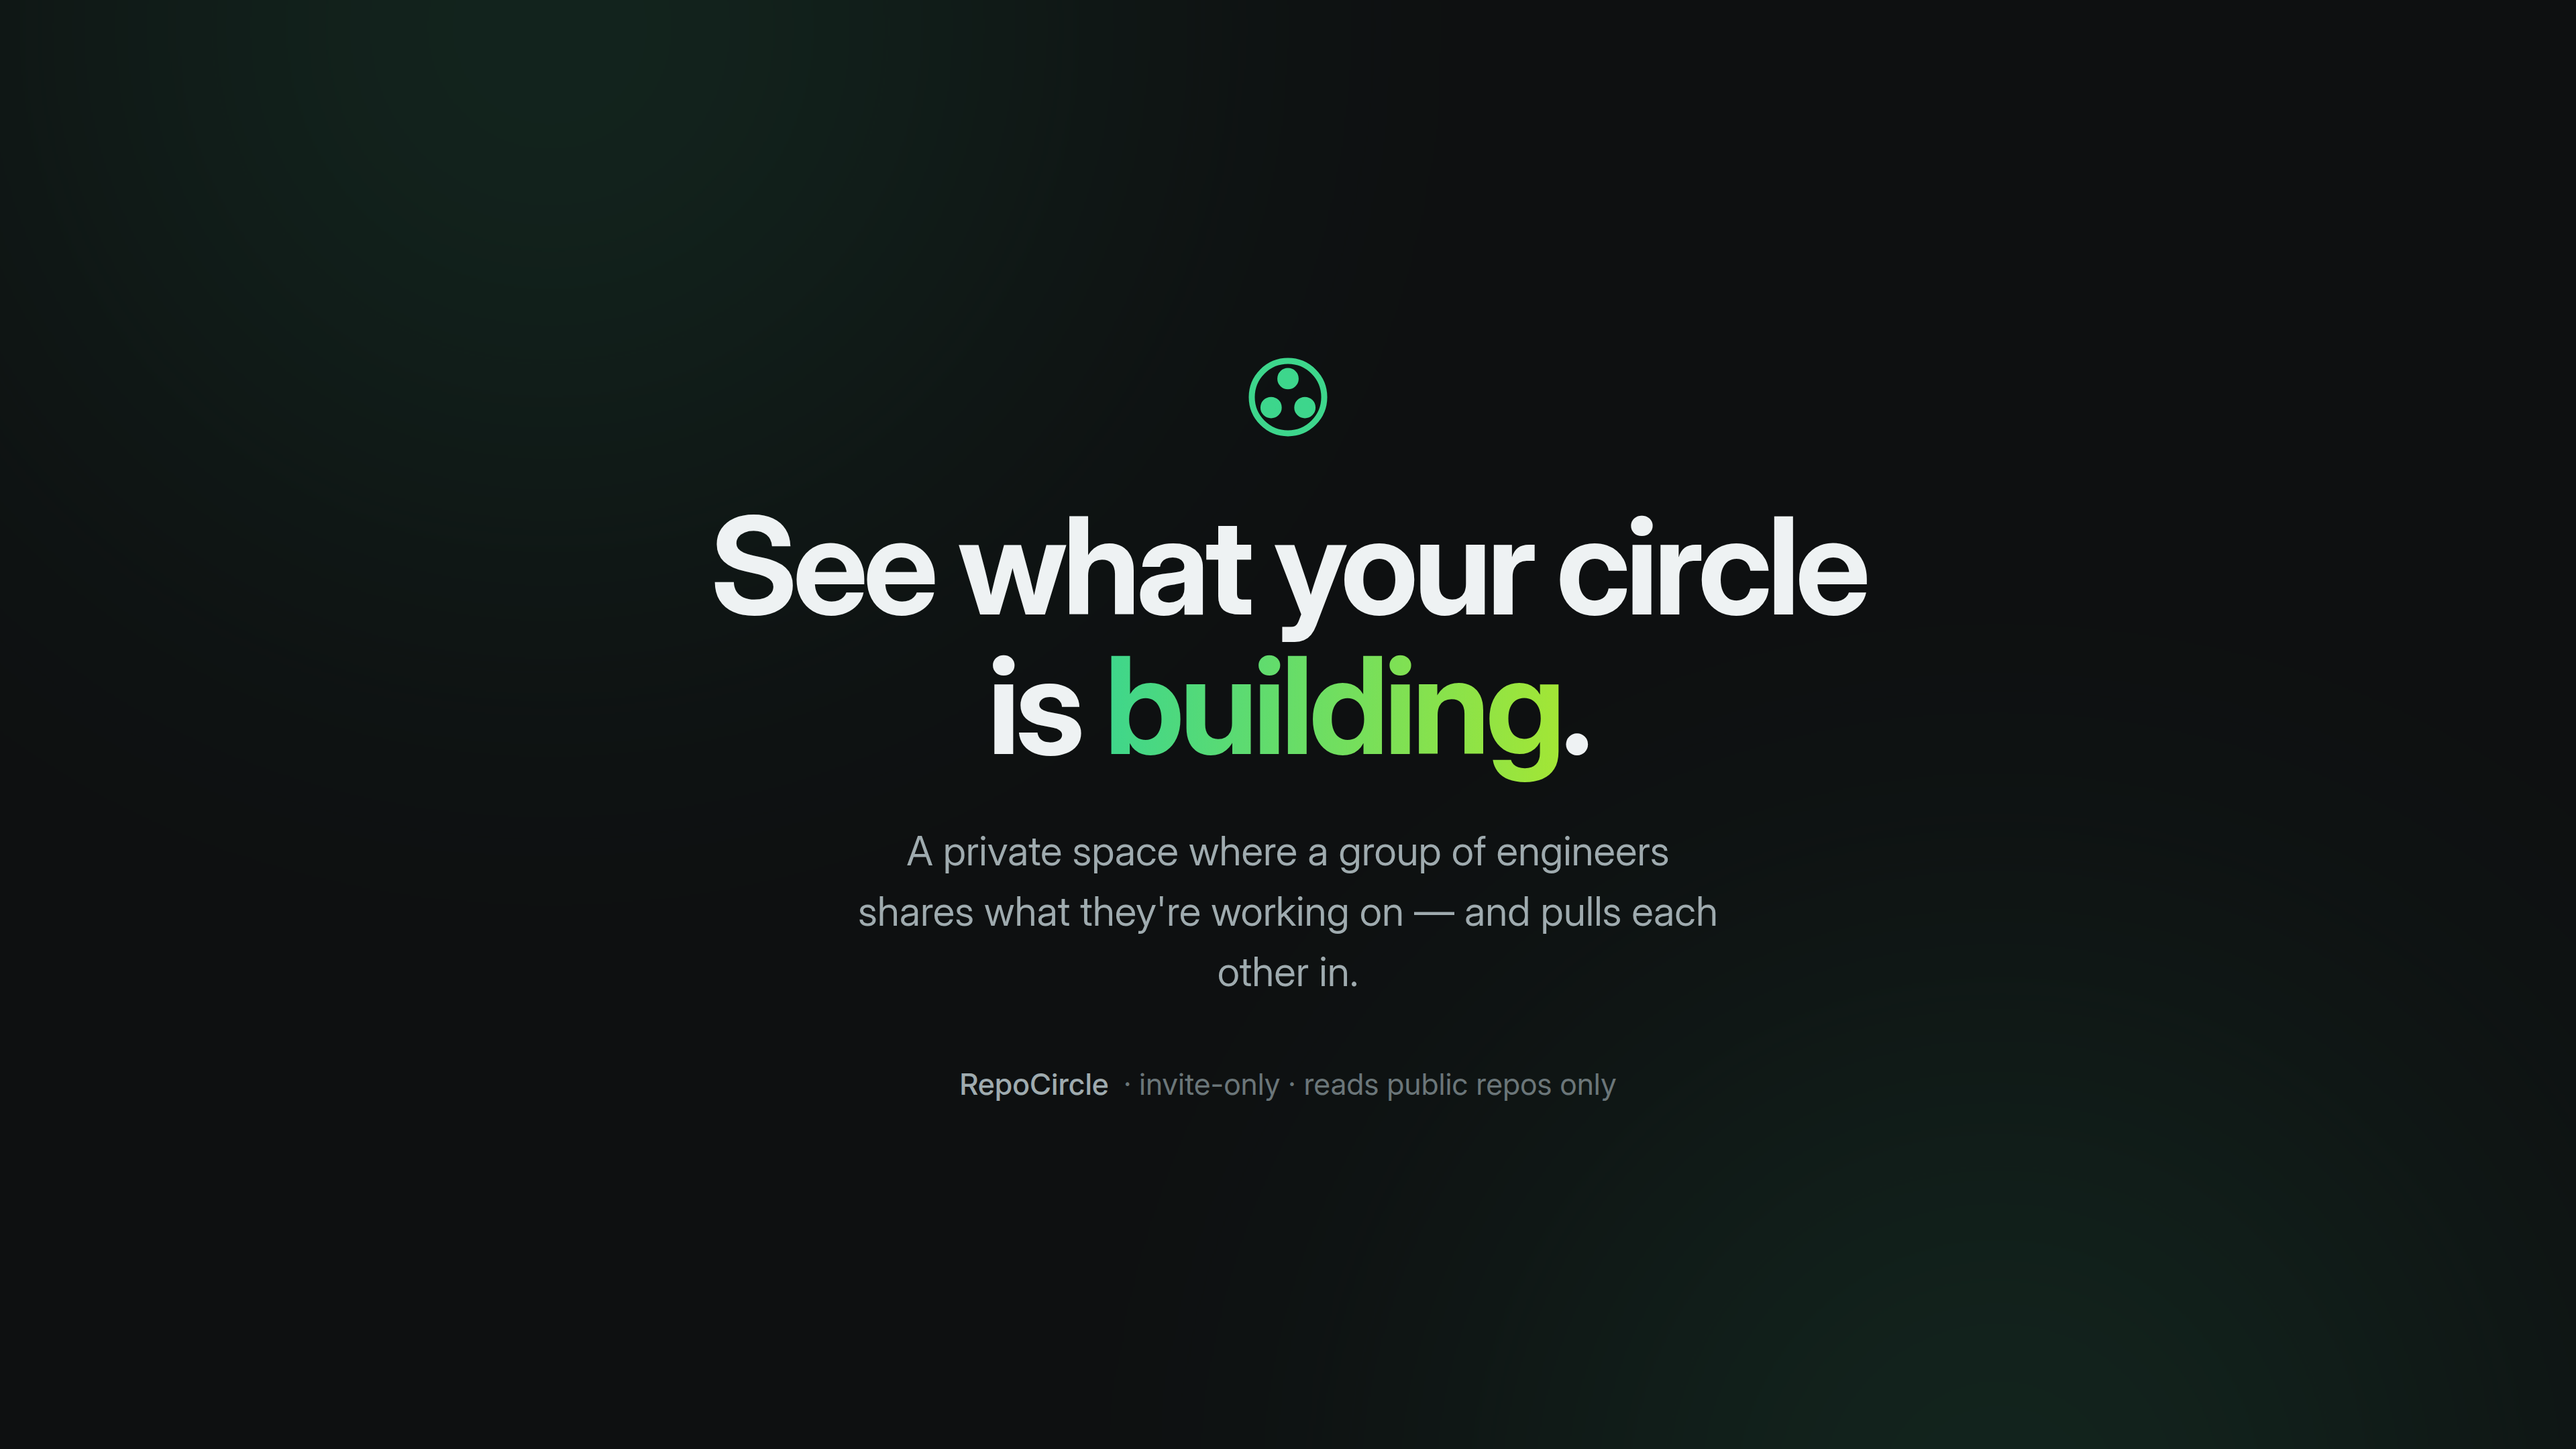
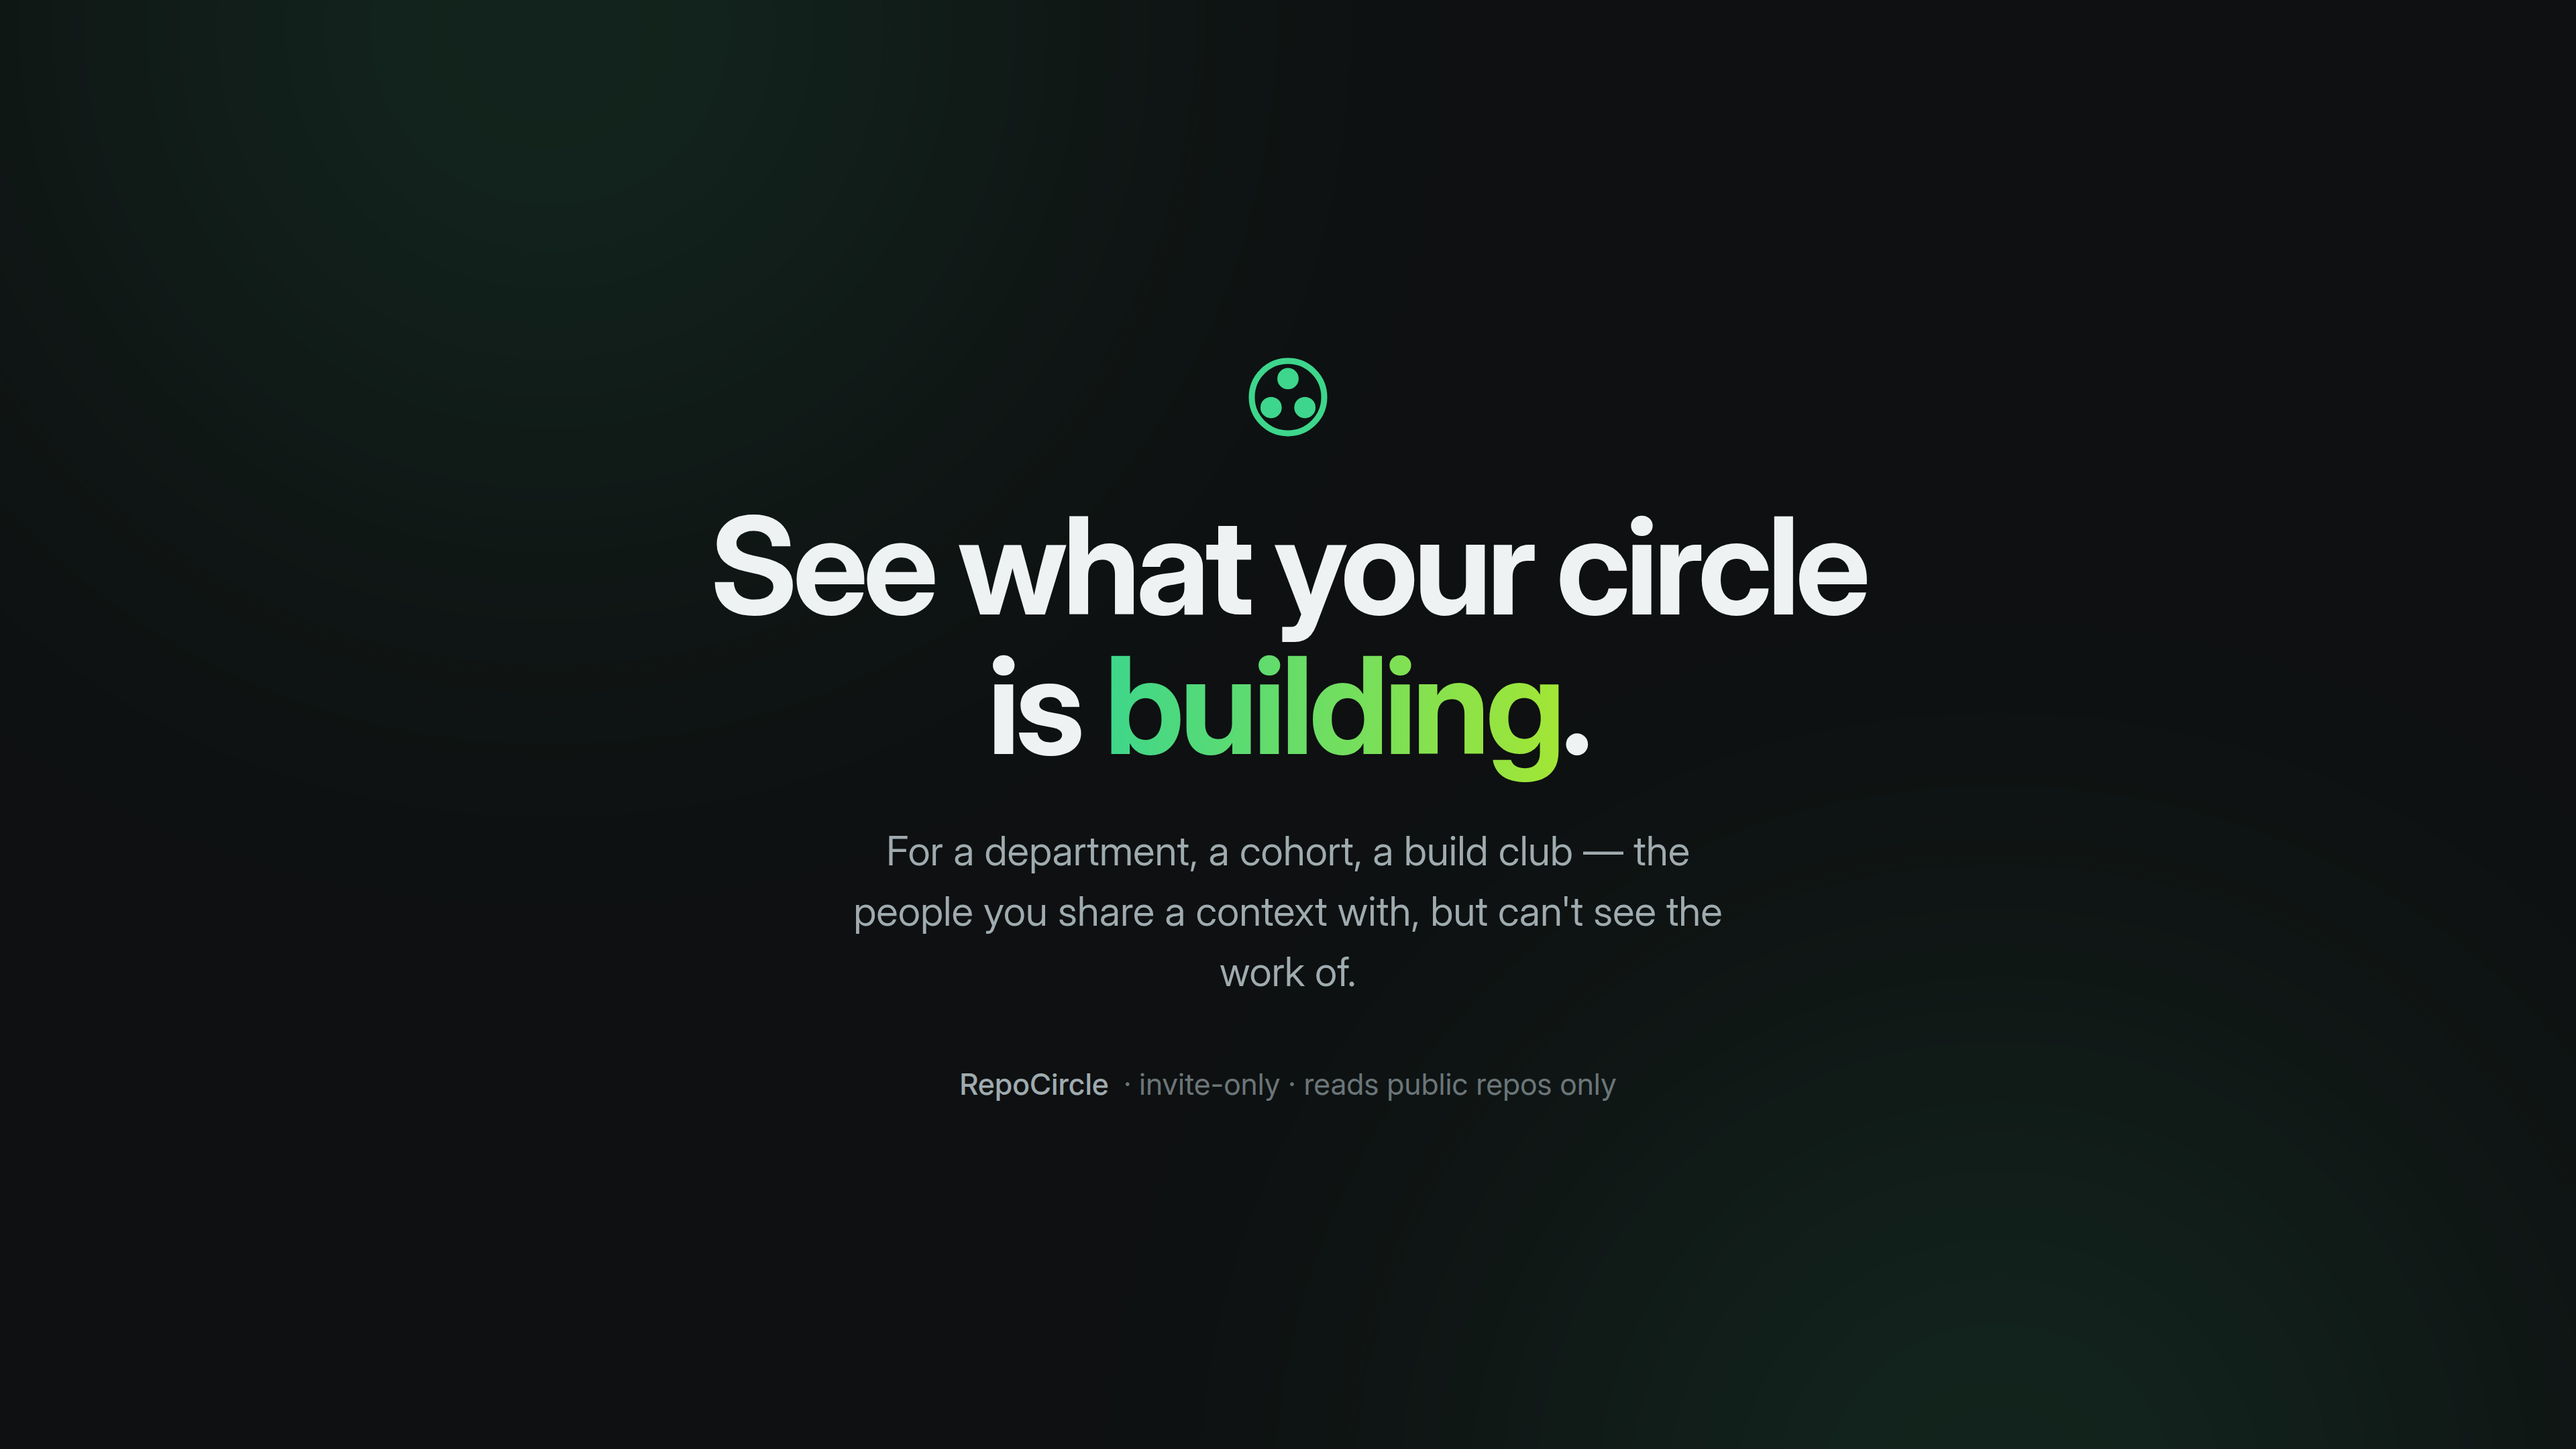
Align the deck and README with POSITIONING
Audited every line against POSITIONING sections 1, 4 and 6. Three
mismatches:

- The 'asks' slide was titled 'Getting unstuck'. Stuck flags are a
  supporting mechanic, not the framing -- the product is about
  building together and joining in. Now 'Helping each other'.
- Nothing in the deck or README conveyed who this is for. Section 1 is
  explicit that the target is a bounded community of roughly 100-300
  who share a context, and NOT a friend group; both now say
  'a department, a cohort, a build club'.
- The people slide listed profile fields without saying why they
  matter, which is only obvious at that scale: in a group this size a
  name means little on its own.

Also swapped 'the whole group' for 'the whole circle' to use the
product's own vocabulary. Video and GIF rebuilt.

Changed region(s): [[0.3125, 0.5583, 0.6875, 0.6824]]

diff --git a/docs/slides/slides.html b/docs/slides/slides.html
@@ -26,16 +26,16 @@ h2{font-size:62px;line-height:1.07;letter-spacing:-.03em;font-weight:670;color:v
 .tag b{color:var(--dim);font-weight:500}
 .foot{position:absolute;bottom:60px;left:0;right:0;text-align:center;font-size:22px;color:var(--faint);font-family:ui-monospace,monospace}
 .tint{background:linear-gradient(92deg,var(--accent),var(--accent2));-webkit-background-clip:text;background-clip:text;color:transparent}
-</style><section class="slide" id="00-title"><div class="halo tl"></div><div class="halo br"></div><div class="pad center"><svg class="mark" viewBox="0 0 24 24" fill="none" stroke="#3dd68c" stroke-width="1.5"><circle cx="12" cy="12" r="9"/><circle cx="12" cy="7.4" r="1.9" fill="#3dd68c"/><circle cx="7.8" cy="14.6" r="1.9" fill="#3dd68c"/><circle cx="16.2" cy="14.6" r="1.9" fill="#3dd68c"/></svg><h1>See what your circle<br>is <span class="tint">building</span>.</h1><p class="sub">A private space where a group of engineers shares what they're working on — and pulls each other in.</p><div class="tag"><b>RepoCircle</b> · invite-only · reads public repos only</div></div></section>
+</style><section class="slide" id="00-title"><div class="halo tl"></div><div class="halo br"></div><div class="pad center"><svg class="mark" viewBox="0 0 24 24" fill="none" stroke="#3dd68c" stroke-width="1.5"><circle cx="12" cy="12" r="9"/><circle cx="12" cy="7.4" r="1.9" fill="#3dd68c"/><circle cx="7.8" cy="14.6" r="1.9" fill="#3dd68c"/><circle cx="16.2" cy="14.6" r="1.9" fill="#3dd68c"/></svg><h1>See what your circle<br>is <span class="tint">building</span>.</h1><p class="sub">For a department, a cohort, a build club — the people you share a context with, but can't see the work of.</p><div class="tag"><b>RepoCircle</b> · invite-only · reads public repos only</div></div></section>
 <section class="slide" id="01-problem"><div class="halo br"></div><div class="pad"><div class="eyebrow">Why a circle</div><h1>Now is the best time<br>to build. The hard part<br>is what — and who with.</h1><p class="sub" style="max-width:32ch">Tooling stopped being the bottleneck. Direction and company didn't.</p></div></section>
-<section class="slide" id="02-circle-home"><div class="halo br"></div><div class="split"><div class="copy"><div class="eyebrow">The circle</div><h2>One page for<br>the whole group</h2><p class="sub">What's new, what's active, what needs a hand, and who just arrived.</p></div><div class="shot"><div class="frame"><div class="bar"><span class="dot"></span><span class="dot"></span><span class="dot"></span><span class="url">repocircle</span></div><img src="crops/circle-home.png"></div></div></div></section>
+<section class="slide" id="02-circle-home"><div class="halo br"></div><div class="split"><div class="copy"><div class="eyebrow">The circle</div><h2>One page for<br>the whole circle</h2><p class="sub">What's new, what's active, what needs a hand, and who just arrived.</p></div><div class="shot"><div class="frame"><div class="bar"><span class="dot"></span><span class="dot"></span><span class="dot"></span><span class="url">repocircle</span></div><img src="crops/circle-home.png"></div></div></div></section>
 <section class="slide" id="03-matcher"><div class="halo tl"></div><div class="split flip"><div class="copy"><div class="eyebrow">Matching</div><h2>Work that wants<br>what you're good at</h2><p class="sub">Say what you can help with once. Projects that asked for exactly that come to you.</p></div><div class="shot"><div class="frame"><div class="bar"><span class="dot"></span><span class="dot"></span><span class="dot"></span><span class="url">repocircle</span></div><img src="crops/matcher.png"></div></div></div></section>
 <section class="slide" id="04-idea"><div class="halo br"></div><div class="split"><div class="copy"><div class="eyebrow">Ideas</div><h2>Pitch it before<br>you build it</h2><p class="sub">An idea needs no repository — just a sentence and the kind of help it wants.</p></div><div class="shot"><div class="frame"><div class="bar"><span class="dot"></span><span class="dot"></span><span class="dot"></span><span class="url">repocircle</span></div><img src="crops/idea-open.png"></div></div></div></section>
 <section class="slide" id="05-germinate"><div class="halo tl"></div><div class="split flip"><div class="copy"><div class="eyebrow">Germination</div><h2>And when it<br>becomes real</h2><p class="sub">The idea links to the repo it became. The person who builds it doesn't have to be the person who thought of it.</p></div><div class="shot"><div class="frame"><div class="bar"><span class="dot"></span><span class="dot"></span><span class="dot"></span><span class="url">repocircle</span></div><img src="crops/germinated.png"></div></div></div></section>
 <section class="slide" id="06-journey"><div class="halo br"></div><div class="split"><div class="copy"><div class="eyebrow">History</div><h2>Every project remembers<br>how it started</h2><p class="sub">Assembled from facts the app already stores. Never counted, never ranked.</p></div><div class="shot"><div class="frame"><div class="bar"><span class="dot"></span><span class="dot"></span><span class="dot"></span><span class="url">repocircle</span></div><img src="crops/journey.png"></div></div></div></section>
 <section class="slide" id="07-together"><div class="halo tl"></div><div class="split flip"><div class="copy"><div class="eyebrow">Collaboration</div><h2>The moment<br>it works</h2><p class="sub">Ask for access in one tap. The circle sees a project with two names on it instead of one.</p></div><div class="shot"><div class="frame"><div class="bar"><span class="dot"></span><span class="dot"></span><span class="dot"></span><span class="url">repocircle</span></div><img src="crops/together.png"></div></div></div></section>
-<section class="slide" id="08-asks"><div class="halo br"></div><div class="split"><div class="copy"><div class="eyebrow">Getting unstuck</div><h2>Ask, claim,<br>and credit the answer</h2><p class="sub">One fact on one ask — never a scoreboard.</p></div><div class="shot"><div class="frame"><div class="bar"><span class="dot"></span><span class="dot"></span><span class="dot"></span><span class="url">repocircle</span></div><img src="crops/ask-resolved.png"></div></div></div></section>
-<section class="slide" id="09-people"><div class="halo tl"></div><div class="split flip"><div class="copy"><div class="eyebrow">People</div><h2>Who they are,<br>and what they bring</h2><p class="sub">What they can help with, what they're learning, and the languages they actually work in — derived from their repos.</p></div><div class="shot"><div class="frame"><div class="bar"><span class="dot"></span><span class="dot"></span><span class="dot"></span><span class="url">repocircle</span></div><img src="crops/profile.png"></div></div></div></section>
+<section class="slide" id="08-asks"><div class="halo br"></div><div class="split"><div class="copy"><div class="eyebrow">Helping each other</div><h2>Ask, claim,<br>and credit the answer</h2><p class="sub">One fact on one ask — never a scoreboard.</p></div><div class="shot"><div class="frame"><div class="bar"><span class="dot"></span><span class="dot"></span><span class="dot"></span><span class="url">repocircle</span></div><img src="crops/ask-resolved.png"></div></div></div></section>
+<section class="slide" id="09-people"><div class="halo tl"></div><div class="split flip"><div class="copy"><div class="eyebrow">People</div><h2>Who they are,<br>and what they bring</h2><p class="sub">In a group this size a name means little on its own. What someone offers, what they're learning, and the languages they actually write — read from their repos.</p></div><div class="shot"><div class="frame"><div class="bar"><span class="dot"></span><span class="dot"></span><span class="dot"></span><span class="url">repocircle</span></div><img src="crops/profile.png"></div></div></div></section>
 <section class="slide" id="10-inbox"><div class="halo br"></div><div class="split"><div class="copy"><div class="eyebrow">Coming back</div><h2>What happened<br>while you were away</h2><p class="sub">Replies, mentions and raised hands — gathered when you visit, not pushed at you all day.</p></div><div class="shot"><div class="frame"><div class="bar"><span class="dot"></span><span class="dot"></span><span class="dot"></span><span class="url">repocircle</span></div><img src="crops/inbox.png"></div></div></div></section>
 <section class="slide" id="11-private"><div class="halo tl"></div><div class="split flip"><div class="copy"><div class="eyebrow">Private by default</div><h2>Invite only.<br>Public repos only.</h2><p class="sub">Nothing is visible until you join, and a private repository is never requested.</p></div><div class="shot"><div class="frame"><div class="bar"><span class="dot"></span><span class="dot"></span><span class="dot"></span><span class="url">repocircle</span></div><img src="crops/invite.png"></div></div></div></section>
 <section class="slide" id="12-outro"><div class="halo tl"></div><div class="halo br"></div><div class="pad center"><svg class="mark" viewBox="0 0 24 24" fill="none" stroke="#3dd68c" stroke-width="1.5"><circle cx="12" cy="12" r="9"/><circle cx="12" cy="7.4" r="1.9" fill="#3dd68c"/><circle cx="7.8" cy="14.6" r="1.9" fill="#3dd68c"/><circle cx="16.2" cy="14.6" r="1.9" fill="#3dd68c"/></svg><h1 class="tint">RepoCircle</h1><p class="sub">See what your circle is building. Ask to join in.</p><div class="tag"><b>github.com/calmcodelabs/repocircle</b></div></div><div class="foot">Static PWA · GitHub Pages + Firebase · no server</div></section>

diff --git a/README.md b/README.md
@@ -6,7 +6,7 @@
 
 **See what your circle is building. Ask to join in.**
 
-An invite-only space where a group of engineers can see each other's work in progress — and join in on it.
+For a department, a cohort, a build club — see what everyone is building, and join in on it.
 
 [Live app](https://calmcodelabs.github.io/repocircle/) · [How it works](#how-it-works) · [Documentation](#documentation) · [Run it yourself](#run-your-own)
 
@@ -29,7 +29,7 @@ Now is the best time to build. Tooling stopped being the bottleneck — an idea 
 
 What's scarce is everything around that. Which idea is worth the weekend. Whether anyone else finds it interesting. Whether the person who'd make it good ever hears about it.
 
-A circle is where those get answered. Ideas are argued over before they become code, work stays visible while it's still rough, and the path from *"that looks interesting"* to *"I'm building it with you"* is one tap long.
+A circle — a department, a cohort, one big Discord — is where those get answered. Ideas are argued over before they become code, work stays visible while it's still rough, and the path from *"that looks interesting"* to *"I'm building it with you"* is one tap long.
 
 **No leaderboards, no streaks, no contribution counts.** That's a rule, not an omission — nothing here ranks one member against another.
 
